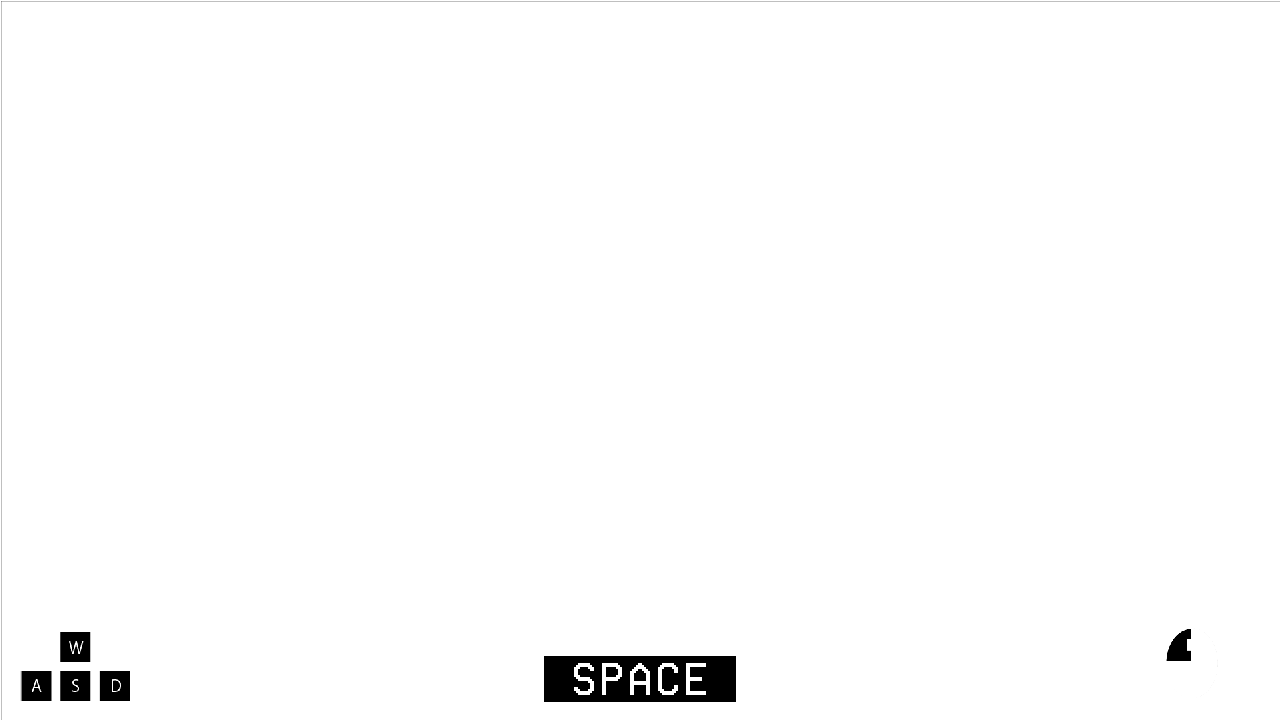
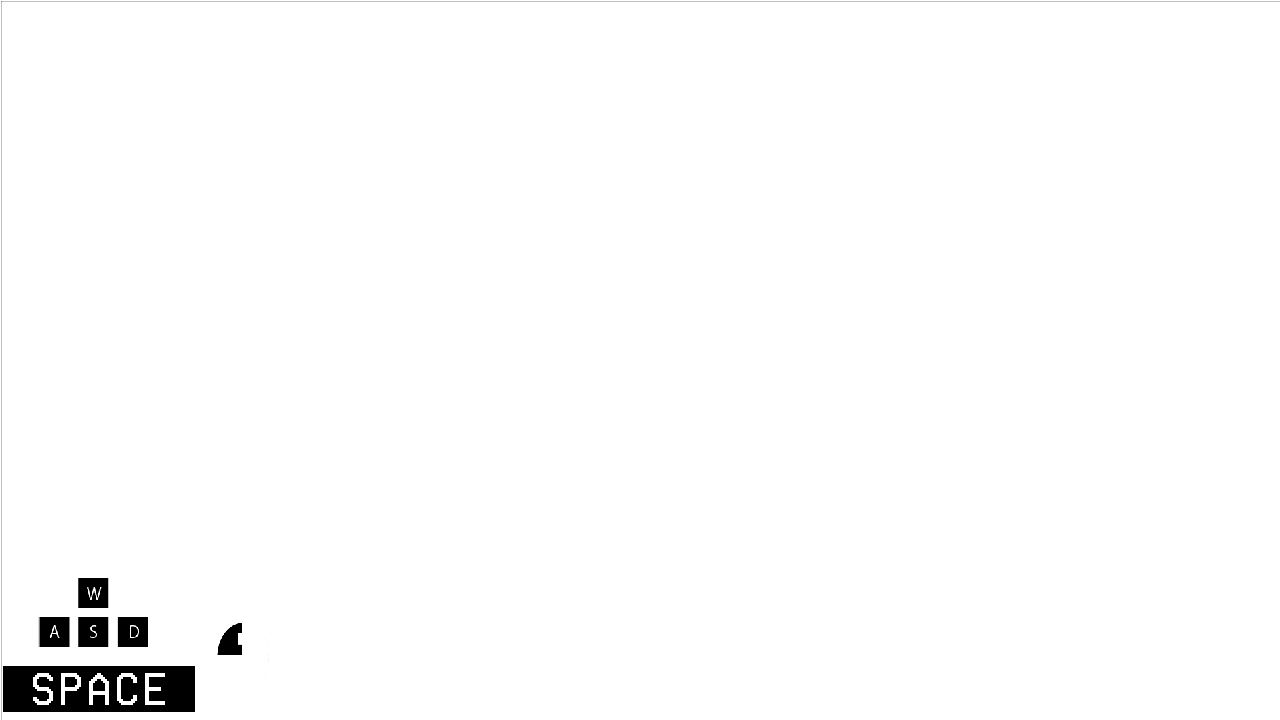
操作UI追加

diff --git a/scene/GamePlayScene.cpp b/scene/GamePlayScene.cpp
@@ -16,6 +16,8 @@
 
 void GamePlayScene::Initialize(DirectXCommon* dxCommon)
 {
+	Sprite::LoadTexture(1, L"Resources/sosa_sinan.png");
+	sprite.reset(Sprite::Create(1, { 0,0 }));
 	Sprite::LoadTexture(2, L"Resources/HP.png");
 	LifeSprite.reset(Sprite::Create(2, { 930,590 }));
 	Sprite::LoadTexture(3, L"Resources/HP.png");
@@ -74,6 +76,8 @@ void GamePlayScene::Initialize(DirectXCommon* dxCommon)
 	for (int i = 0; i < 8; i++) {
 		door[i] = new Door();
 		door[i]->Initialize();
+
+		//ドアの位置
 		doorPos[i] = door[i]->GetPosition();
 		doorPos[0] = { 8, 8, 50 };
 		doorPos[1] = { -8,8,50 };
@@ -83,6 +87,7 @@ void GamePlayScene::Initialize(DirectXCommon* dxCommon)
 		doorPos[5] = { 50,8,-8 };
 		doorPos[6] = { 8, 8, -50 };
 		doorPos[7] = { -8,8,-50 };
+		//ドアの向き
 		doorRot[i] = door[i]->GetRotation();
 		doorRot[2] = { 0, 90 ,0 };
 		doorRot[3] = { 0, 90 ,0 };
@@ -101,10 +106,32 @@ void GamePlayScene::Finalize()
 	for (int i = 0; i < 8; i++) {
 		delete door[i];
 	}
+	//壁があったら削除する
+	walls.remove_if([](std::unique_ptr<Wall>& wall) {
+		return wall->GetAlive();
+		});
+	
 }
 
 void GamePlayScene::Update()
 {
+	//前敵が死んだら削除する
+	frontEnemy.remove_if([](std::unique_ptr<FrontEnemy>& front) {
+		return !front->GetAlive();
+		});
+	//左敵が死んだら削除する
+	leftEnemy.remove_if([](std::unique_ptr<LeftEnemy>& left) {
+		return !left->GetAlive();
+		});
+	//右敵が死んだら削除する
+	rightEnemy.remove_if([](std::unique_ptr<RightEnemy>& right) {
+		return !right->GetAlive();
+		});
+	//後ろ敵が死んだら削除する
+	backEnemy.remove_if([](std::unique_ptr<BackEnemy>& back) {
+		return !back->GetAlive();
+		});
+
 	Input* input = Input::GetInstance();
 
 	// マウスを表示するかどうか(TRUEで表示、FALSEで非表示)
@@ -209,6 +236,7 @@ void GamePlayScene::Update()
 	particleMan->Update();
 }
 
+//敵のPhaseに合わせて動かす
 void GamePlayScene::DoorMove()
 {
 	if (doorPos[0].x >= 0) {
@@ -230,11 +258,11 @@ void GamePlayScene::DoorMove()
 	if (doorPos[5].z >= -16 && fEnePhase >= 7 && lEnePhase >= 3) {
 		doorPos[5].z -= 0.05;
 	}
-	if (doorPos[7].x >= 0 && fEnePhase >= 9 && lEnePhase >= 5 && rEnePhase >= 2) {
-		doorPos[7].x -= 0.05;
+	if (doorPos[6].x >= 0 && fEnePhase >= 9 && lEnePhase >= 5 && rEnePhase >= 2) {
+		doorPos[6].x -= 0.05;
 	}
-	if (doorPos[8].x >= -16 && fEnePhase >= 9 && lEnePhase >= 5 && rEnePhase >= 2) {
-		doorPos[8].x -= 0.05;
+	if (doorPos[7].x >= -16 && fEnePhase >= 9 && lEnePhase >= 5 && rEnePhase >= 2) {
+		doorPos[7].x -= 0.05;
 	}
 
 	for (int i = 0; i < 8; i++) {
@@ -309,7 +337,7 @@ void GamePlayScene::Draw(DirectXCommon* dxCommon)
 	/// <summary>
 	/// ここに前景スプライトの描画処理を追加できる
 	/// </summary>
-	//sprite->Draw();
+	sprite->Draw();
 	if (playerLife >= 8) { LifeSprite8->Draw(); }
 	if (playerLife >= 7) { LifeSprite7->Draw(); }
 	if (playerLife >= 6) { LifeSprite6->Draw(); }
@@ -408,7 +436,7 @@ void GamePlayScene::UpdataEnemyPopCommand()
 			float z = (float)std::atof(word.c_str());
 
 			//敵を発生させる
-			//コンストラクタ呼ぶよ
+			//コンストラクタ呼ぶ
 			std::unique_ptr<LeftEnemy> newLeft = std::make_unique<LeftEnemy>();
 			newLeft->Initialize(XMFLOAT3(x, y, z));
 			newLeft->SetPlayer(player.get());
@@ -430,7 +458,7 @@ void GamePlayScene::UpdataEnemyPopCommand()
 			float z = (float)std::atof(word.c_str());
 
 			//敵を発生させる
-			//コンストラクタ呼ぶよ
+			//コンストラクタ呼ぶ
 			std::unique_ptr<RightEnemy> newRight = std::make_unique<RightEnemy>();
 			newRight->Initialize(XMFLOAT3(x, y, z));
 			newRight->SetPlayer(player.get());
@@ -452,7 +480,7 @@ void GamePlayScene::UpdataEnemyPopCommand()
 			float z = (float)std::atof(word.c_str());
 
 			//敵を発生させる
-			//コンストラクタ呼ぶよ
+			//コンストラクタ呼ぶ
 			std::unique_ptr<BackEnemy> newBack = std::make_unique<BackEnemy>();
 			newBack->Initialize(XMFLOAT3(x, y, z));
 			newBack->SetPlayer(player.get());
@@ -531,7 +559,7 @@ void GamePlayScene::UpdataObstaclePopCommand()
 			float z = (float)std::atof(word.c_str());
 
 			//敵を発生させる
-			//コンストラクタ呼ぶよ
+			//コンストラクタ呼ぶ
 			std::unique_ptr<Obstacle> newObstacle = std::make_unique<Obstacle>();
 			newObstacle->Initialize(XMFLOAT3(x, y, z));
 			//障害物を登録する

diff --git a/enemy/FrontEnemy.cpp b/enemy/FrontEnemy.cpp
@@ -60,11 +60,9 @@ void FrontEnemy::TitleUpdate()
 
 void FrontEnemy::appearance()
 {
-	position.y -= moveY;
-	int y = rand() % 70;
-	float y2 = (float)y / 10;//6~0
-	if (position.y <= y2) {
-		moveY = 0;
+	position.z -= moveZ;
+	if (position.z <= 50) {
+		moveZ = 0;
 		appFlag = false;
 	}
 }

diff --git a/3d/GameObject.h b/3d/GameObject.h
@@ -19,6 +19,7 @@ protected:
 	float move = 0.2f;
 	float moveY = 0.2f;
 	float moveZ = 0.05f;
+	float moveX = 0.05;
 	bool appFlag = true;
 
 
